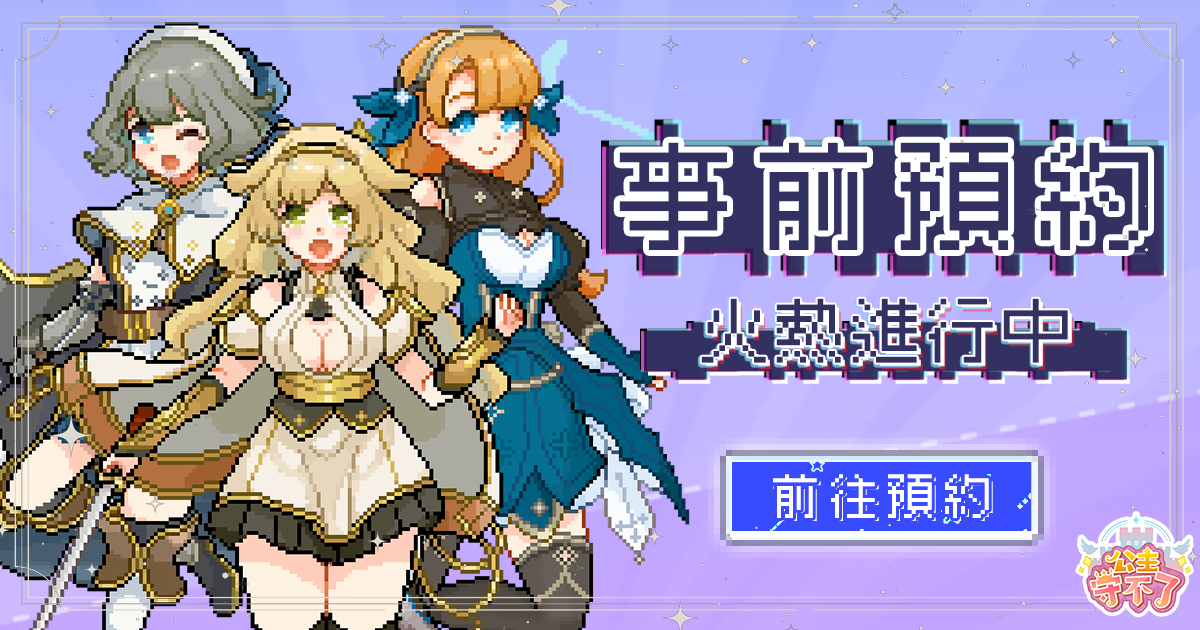
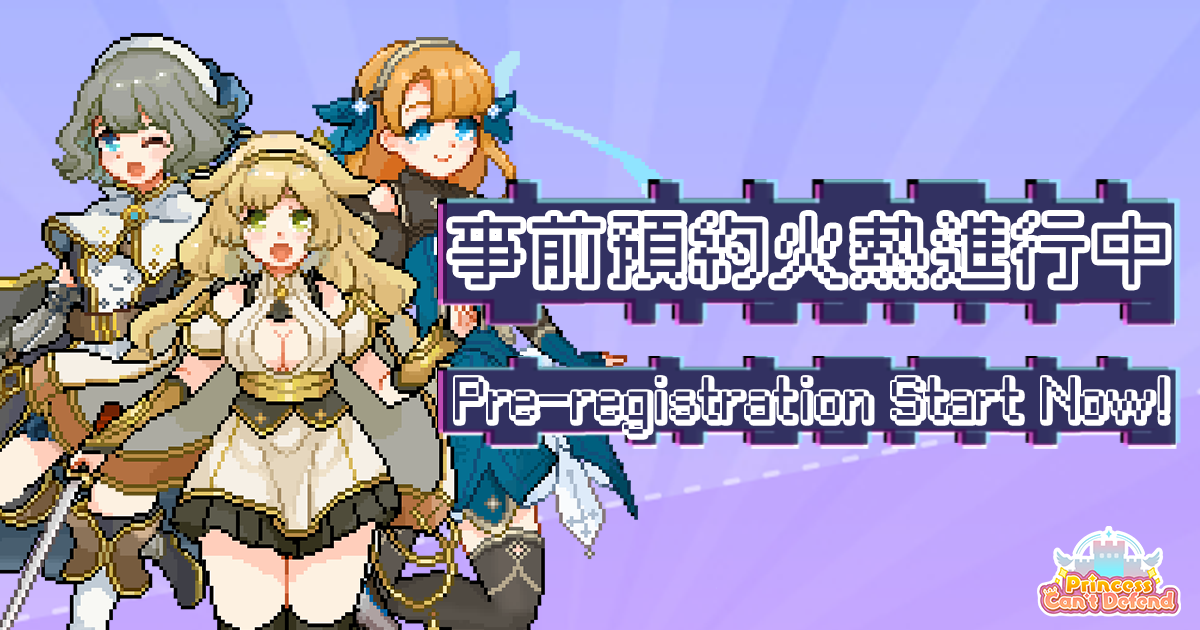
updateOGInfo

diff --git a/node/frontend/finalPrincessEN/js/index.js b/node/frontend/finalPrincessEN/js/index.js
@@ -45,37 +45,37 @@ selectRegions.forEach((region, index) => {
   });
 });
 //
-document.addEventListener('DOMContentLoaded', () => {
-  let initialized = false;
+ document.addEventListener('DOMContentLoaded', () => {
+//   let initialized = false;
 
-  function initializeLanguageSwitcher() {
-      if (initialized) return;
-      initialized = true;
+//   function initializeLanguageSwitcher() {
+//       if (initialized) return;
+//       initialized = true;
 
-      // Detect the user's preferred language
-      const userLang = navigator.language || navigator.userLanguage;
-      const langSwitcher = document.querySelector('.lang-switcher');
-      const languages = Array.from(langSwitcher.querySelectorAll('.language'));
+//       // Detect the user's preferred language
+//       const userLang = navigator.language || navigator.userLanguage;
+//       const langSwitcher = document.querySelector('.lang-switcher');
+//       const languages = Array.from(langSwitcher.querySelectorAll('.language'));
 
-      // Find the preferred language element
-      let preferredLangElement = languages.find(lang => lang.getAttribute('data-lang') === userLang);
+//       // Find the preferred language element
+//       let preferredLangElement = languages.find(lang => lang.getAttribute('data-lang') === userLang);
 
-      if (!preferredLangElement) {
-          // Fallback to English if the preferred language is not found
-          preferredLangElement = languages.find(lang => lang.getAttribute('data-lang') === 'en');
-      }
+//       if (!preferredLangElement) {
+//           // Fallback to English if the preferred language is not found
+//           preferredLangElement = languages.find(lang => lang.getAttribute('data-lang') === 'en');
+//       }
 
-      // Move the preferred language to the first position
-      if (preferredLangElement) {
-          langSwitcher.insertBefore(preferredLangElement, langSwitcher.firstChild);
-      }
+//       // Move the preferred language to the first position
+//       if (preferredLangElement) {
+//           langSwitcher.insertBefore(preferredLangElement, langSwitcher.firstChild);
+//       }
 
-      // Highlight the active language
-      languages.forEach(lang => lang.classList.remove('active'));
-      preferredLangElement.classList.add('active');
-  }
+//       // Highlight the active language
+//       languages.forEach(lang => lang.classList.remove('active'));
+//       preferredLangElement.classList.add('active');
+//   }
 
-  initializeLanguageSwitcher();
+//   initializeLanguageSwitcher();
 
   const langSwitcher = document.querySelector('.lang-switcher');
   const languages = Array.from(langSwitcher.querySelectorAll('.language'));

diff --git a/node/frontend/finalPrincess/index.html b/node/frontend/finalPrincess/index.html
@@ -10,8 +10,8 @@
     <script src="https://cdn.jsdelivr.net/npm/swiper@11/swiper-bundle.min.js"></script>
     <link rel="stylesheet" href="https://cdnjs.cloudflare.com/ajax/libs/Swiper/5.4.5/css/swiper.min.css">
     <link rel="icon" href="favicon.png" type="image/x-icon">
-    <meta property="og:title" content="像素風塔防手機遊戲《公主守不了》事前預約火熱進行中">
-    <meta property="og:description" content="立即預約領好禮，解鎖終極大獎金卡公主！">
+    <meta property="og:title" content="Princess Can't Defend 公主守不了">
+    <meta property="og:description" content="Pre-register NOW! 立即預約領好禮！">
     <meta property="og:url" content="https://register.princesscantdefend.com/finalPrincess/index.html">
     <meta property="og:image" content="https://register.princesscantdefend.com/finalPrincess/images/og.png">
     <meta property="og:type" content="website">

diff --git a/node/frontend/finalPrincessEN/index.html b/node/frontend/finalPrincessEN/index.html
@@ -70,7 +70,8 @@
                    <a href="https://www.youtube.com/channel/UC9ppn34K4AVVqe8nzZosVGw" target="_blank"></a>
                 </div>
                 <ul class="lang-switcher">
-                  <li class="language" data-lang="zh-TW">繁體中文</li>
+                  <li class="language" data-lang="zh-TW" >繁體中文</li>
+                  <li class="language" data-lang="zh-TW" >繁體中文</li>
                   <li class="language" data-lang="en">English</li>
                   <li class="language" data-lang="ko" >한국말</li>
                   <li class="language" data-lang="ja" >にほんご</li>

diff --git a/node/node.js b/node/node.js
@@ -130,12 +130,8 @@ app.get('/', (req, res) => {
   }else{
     res.redirect('/finalPrincessEN/index.html');
    // res.redirect('/finalPrincess/index.html');
-   res.redirect('/finalPrincess/index.html');
-  }else{
-    //res.redirect('/finalPrincessEN/index.html');
-    res.redirect('/finalPrincessEN/index.html');
   }
 })
 
-https.createServer(options, app).listen(443,()=>{console.log('Server is running on https://localhost:443');})
+https.createServer(options, app).listen(8081,()=>{console.log('Server is running on https://localhost:8081');})
  
